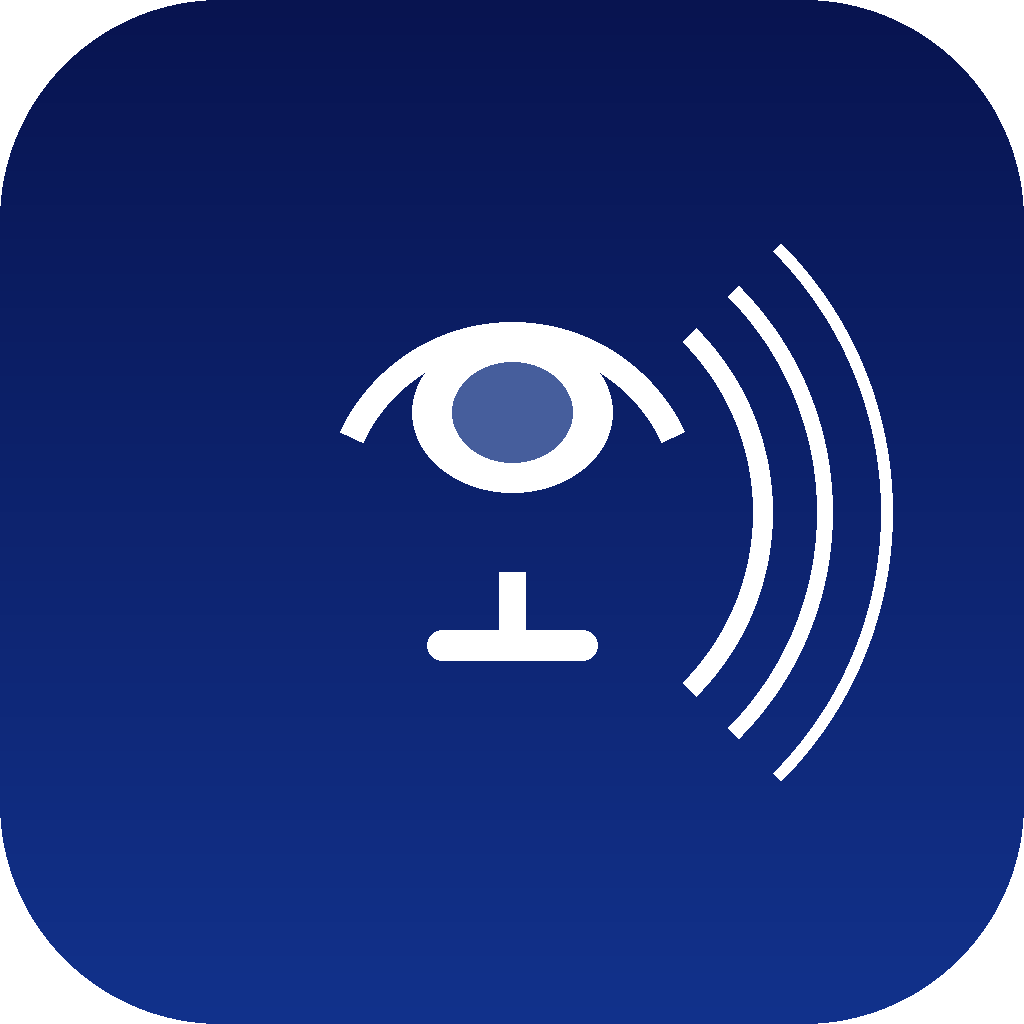
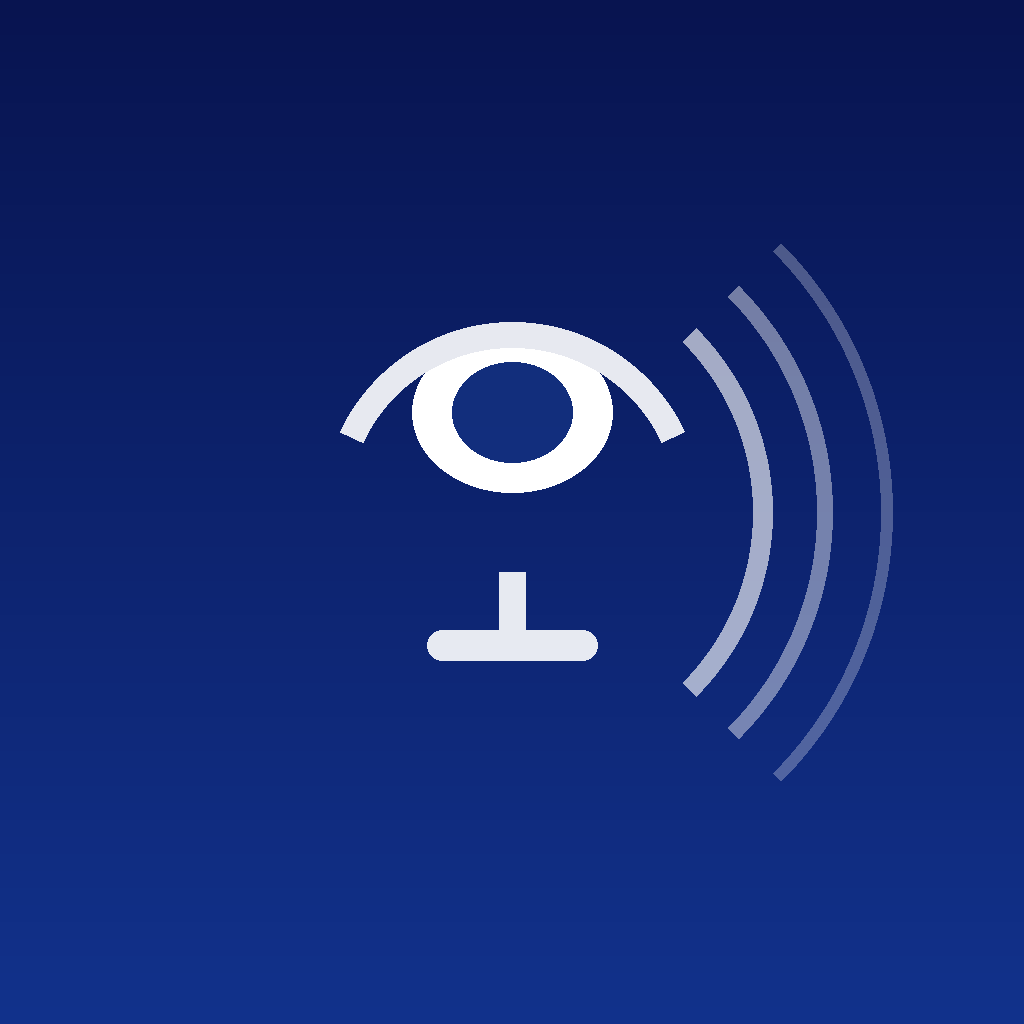
Normalize deployment env ownership and Tencent workflow (#231)

diff --git a/packages/shared/src/i18n.ts b/packages/shared/src/i18n.ts
@@ -161,7 +161,7 @@ export const t: Record<Locale, Record<string, string>> = {
     'settings.language_desc': 'Interface display language.',
     'settings.ai_provider': 'AI Provider',
     'settings.ai_mode': 'Mode',
-    'settings.ai_hint': 'Add DEEPSEEK_API_KEY to .env.local to switch to the real AI provider.',
+    'settings.ai_hint': 'Add DEEPSEEK_API_KEY to apps/web/.env.local or the server runtime env to switch to the real AI provider.',
     'settings.tts_provider': 'Voice Provider',
     'settings.tts_provider_desc': 'Choose the text-to-speech provider used during conversation.',
     'settings.tts_provider_hint': 'Provider keys stay on the server. If a provider is not configured, voice playback will fail for that provider.',
@@ -416,7 +416,7 @@ export const t: Record<Locale, Record<string, string>> = {
     'settings.language_desc': '界面显示语言。',
     'settings.ai_provider': 'AI 服务商',
     'settings.ai_mode': '模式',
-    'settings.ai_hint': '在 .env.local 中添加 DEEPSEEK_API_KEY 即可切换真实 AI。',
+    'settings.ai_hint': '在 apps/web/.env.local 或服务器运行环境中添加 DEEPSEEK_API_KEY 即可切换真实 AI。',
     'settings.tts_provider': '语音服务商',
     'settings.tts_provider_desc': '选择对话中使用的文本转语音服务商。',
     'settings.tts_provider_hint': '服务商密钥只保存在服务端。如果未配置对应服务商，选择后将无法播放真实语音。',

diff --git a/AGENTS.md b/AGENTS.md
@@ -46,6 +46,8 @@ All spec, plan, and implementation handoff files live in `docs/`:
 
 ## Environment
 
-- `.env.local` — local dev credentials (never committed)
-- `.env.local.example` — template
-- Vercel env vars: `NEXT_PUBLIC_SUPABASE_URL`, `NEXT_PUBLIC_SUPABASE_ANON_KEY`, `SUPABASE_SERVICE_ROLE_KEY`, `DEEPSEEK_API_KEY`, `DEEPSEEK_BASE_URL`
+- `apps/web/.env.local` — Web/API local development credentials (never committed)
+- `apps/web/.env.local.example` — Web/API template
+- `apps/mobile/.env` — mobile build-time public variables only, such as `EXPO_PUBLIC_SUPABASE_URL` and `EXPO_PUBLIC_SUPABASE_ANON_KEY`
+- `/etc/meteorvoice/meteorvoice.env` — Tencent/server runtime environment for the deployed Web/API process
+- Vercel env vars mirror the Web/API server environment: `NEXT_PUBLIC_SUPABASE_URL`, `NEXT_PUBLIC_SUPABASE_ANON_KEY`, `SUPABASE_SERVICE_ROLE_KEY`, `DEEPSEEK_API_KEY`, `DEEPSEEK_BASE_URL`

diff --git a/docs/tts-integration.md b/docs/tts-integration.md
@@ -25,7 +25,7 @@ Do not store provider API keys in the database for the MVP. Keep keys in server-
 
 ## Environment Variables
 
-Local development uses `.env.local`.
+Local Web/API development uses `apps/web/.env.local`. The deployed Tencent server uses `/etc/meteorvoice/meteorvoice.env`.
 
 Vercel or another deployment platform should use provider-managed environment variables instead. Do not commit real keys.
 
@@ -55,7 +55,7 @@ XUNFEI_API_KEY=
 XUNFEI_API_SECRET=
 ```
 
-5. Configure `.env.local` or deployment env vars:
+5. Configure `apps/web/.env.local`, `/etc/meteorvoice/meteorvoice.env`, or deployment env vars:
 
 ```env
 TTS_PROVIDER=xunfei

diff --git a/docs/plan.md b/docs/plan.md
@@ -85,7 +85,7 @@ Recommended default stack:
 - AI workflow: LangGraph as an in-app library for the conversation workflow layer; do not deploy a separate LangGraph server in the MVP
 - AI utilities: LangChain only for prompt templates, provider adapters, structured output helpers, or future tool integration
 - Speech: browser microphone capture, STT/TTS abstraction, and mock providers for local demo
-- Env: `.env.local` for optional AI model, STT, and TTS provider keys
+- Env: `apps/web/.env.local` for optional AI model, STT, and TTS provider keys; deployed servers use `/etc/meteorvoice/meteorvoice.env`
 
 Current implementation status:
 

diff --git a/docs/spec.md b/docs/spec.md
@@ -139,7 +139,7 @@ Recommended approach:
 - Prefer Vercel AI SDK as the primary AI request layer when building with TypeScript
 - Use LangGraph for multi-step learning flows from the start, but keep it isolated in a `conversationWorkflow` layer
 - Do not introduce LangChain broadly unless it removes real complexity
-- Keep all external AI and speech provider keys in `.env.local`
+- Keep all external AI and speech provider keys in Web/API runtime environment files such as `apps/web/.env.local` for local development and `/etc/meteorvoice/meteorvoice.env` for server deployments.
 - Keep paid provider usage optional in the MVP through mock providers and adapter interfaces
 - Make device switching and mobile access first-class requirements, not future enhancements
 - If a different stack is already preferred for implementation, keep these same product and cost constraints while swapping the concrete tools.

diff --git a/docs/supabase-setup.md b/docs/supabase-setup.md
@@ -44,7 +44,7 @@ This gives you a single login surface with two formal account types:
 4. Run `003_tts_preferences.sql`.
 5. Run `004_productized_preferences.sql`.
 6. Run `005_tts_voice_preferences.sql` through `008_voice_profile_preferences.sql`.
-7. Copy the project URL and anon key into `.env.local`.
+7. Copy the project URL and anon key into `apps/web/.env.local` for Web/API local development and `apps/mobile/.env` using Expo's `EXPO_PUBLIC_*` names for mobile builds.
 8. Set Authentication redirect URLs for local development.
 
 ## What the RLS Policies Do